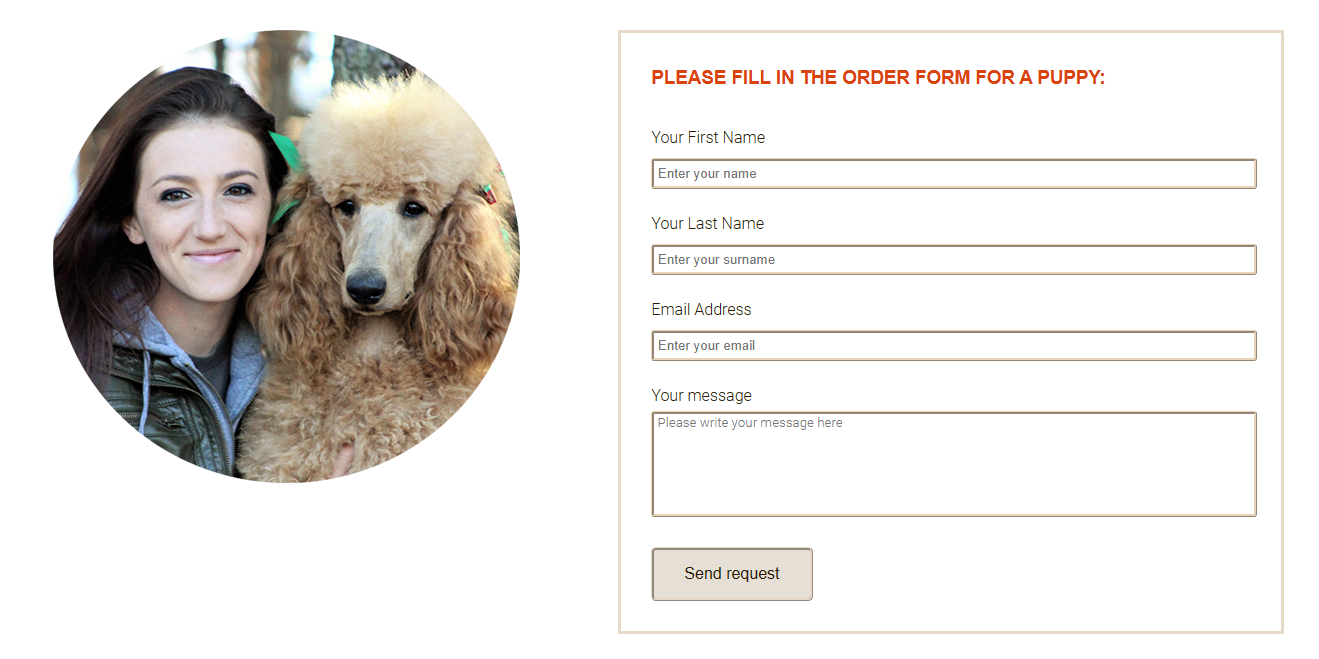
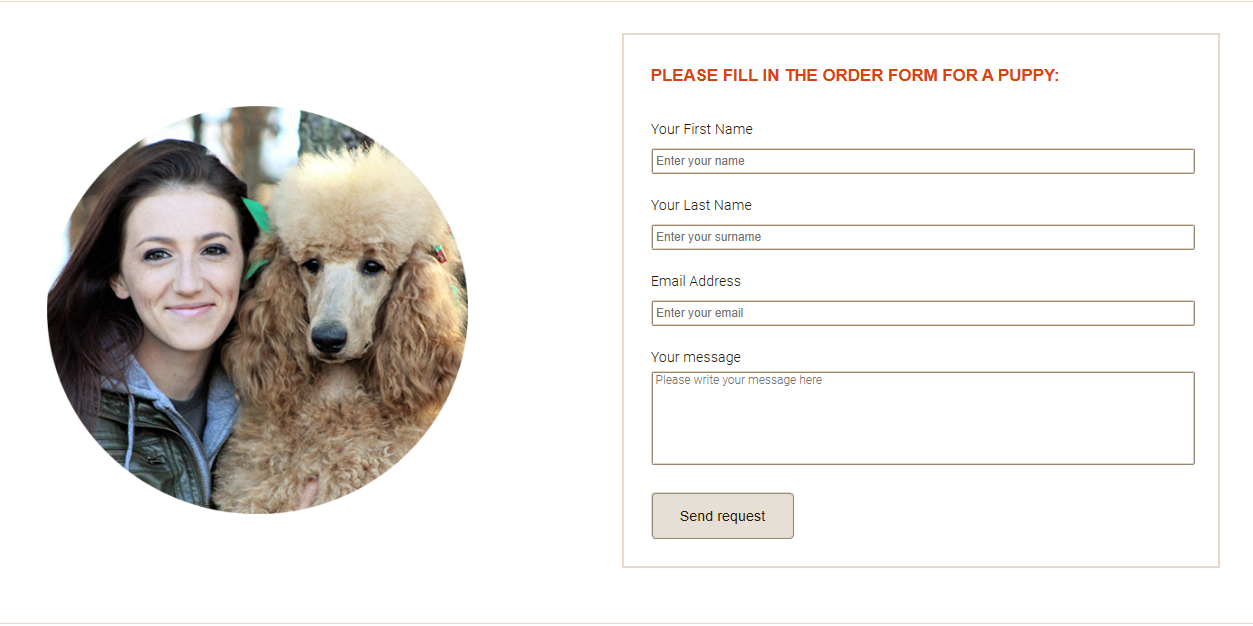
Change readme file and align items on contact form

Changed region(s): [[0.4669, 0.0304, 0.9649, 0.9105], [0.0311, 0.0304, 0.4046, 0.8195], [0.4669, 0.9409, 0.9649, 0.9712]]

diff --git a/assets/css/style.css b/assets/css/style.css
@@ -253,7 +253,8 @@ figcaption {
 
 .form_container {
     display: flex;
-    justify-content: space-around;    
+    justify-content: space-around;
+    align-items: center;     
 }
 
 .form_section {

diff --git a/README.md b/README.md
@@ -3,7 +3,6 @@
 ![screenshot different screens](documentation/about_us_screenshot.png)
 
 ## Table of content
-<hr> 
 
 - <a href="#introduction">Introduction</a>
 - <a href="#project_goals">Project Goals</a>
@@ -38,12 +37,11 @@
 - Acknowledgements
 
 ## <div id="introduction">Introduction</div>
-<hr> 
 
 This is a website for S.P.Breeder, Dublin based business which specializes in Standard Poodles breeding. S.P.Breeder represents show quality poodles from European Champion lines, IKC registered and health tested. The purpose of this website is to establish an online presence for the breeding business as the source of information for customers and for potencial poodle owners. The site will be useful for people who is looking for good pedigree poodle puppy.
 
 ## <div id="project_goals">Project Goals</div>
-<hr> 
+ 
 
 ### <div id="user_goals">User Goals</div>
 
@@ -60,7 +58,7 @@ This is a website for S.P.Breeder, Dublin based business which specializes in St
 - Provide information about us as responsible breeders
 
 ## <div id="design">Design of the website</div>
-<hr> 
+
 
 ### <div id="wireframes">Wireframes</div>
 
